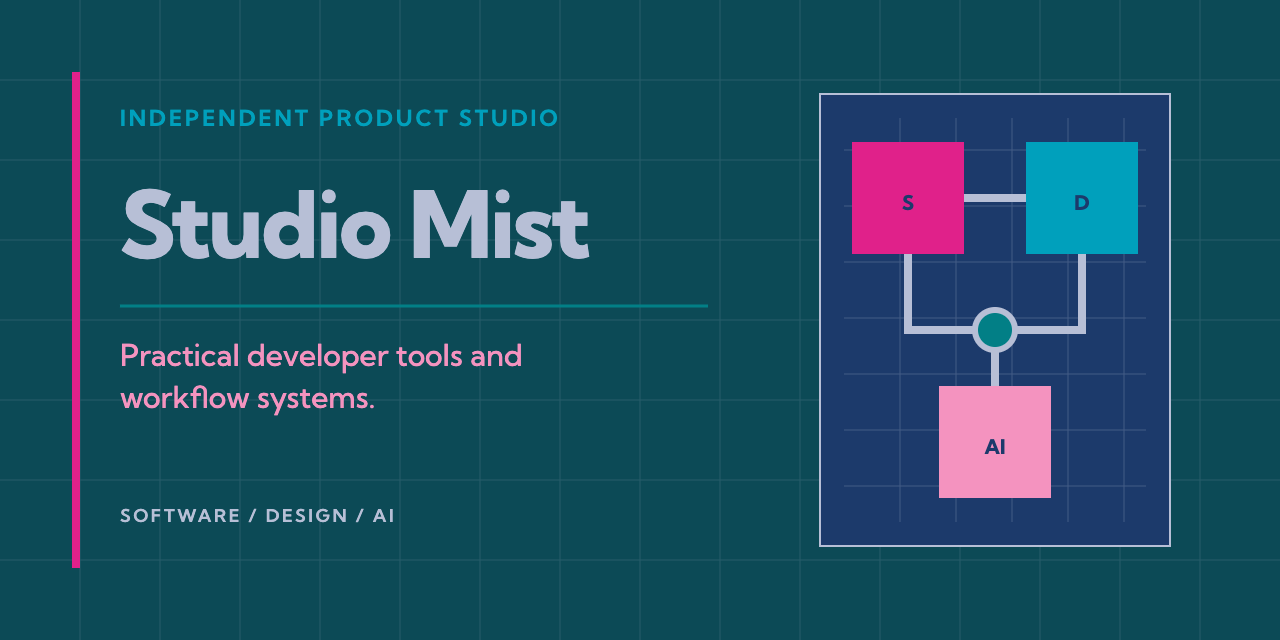
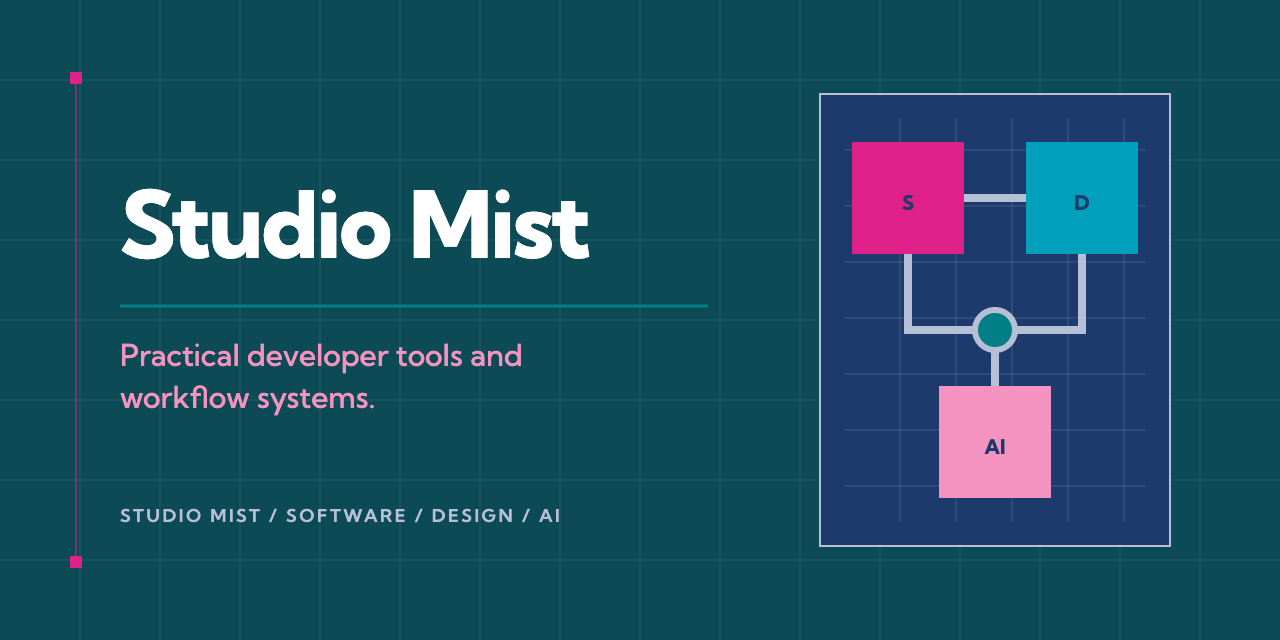
Polish Studio Mist profile artwork

diff --git a/brand/tokens.css b/brand/tokens.css
@@ -13,5 +13,6 @@
   --studio-mist-teal: #027f86;
   --studio-mist-deep-teal: #0c4a56;
   --studio-mist-hot-pink: #e0218a;
+  --studio-mist-white: #ffffff;
   --studio-mist-font: "Kumbh Sans", sans-serif;
 }

diff --git a/brand/README.md b/brand/README.md
@@ -15,7 +15,7 @@ The bundled font is distributed under the SIL Open Font License in [`fonts/OFL.t
 
 ## Palette
 
-Use only these seven brand colours in Studio Mist identity work:
+Use these seven brand colours, plus white for primary headline text:
 
 | Token | Value | Role |
 |---|---|---|
@@ -26,13 +26,14 @@ Use only these seven brand colours in Studio Mist identity work:
 | Teal | `#027f86` | secondary structure |
 | Deep teal | `#0c4a56` | alternate dark field |
 | Hot pink | `#e0218a` | primary accent and focal signal |
+| White | `#ffffff` | primary headline text only |
 
 ## Composition
 
 - Use an architectural grid with visible alignment, fine rules and measured spacing.
 - Prefer modular diagrams, frames and structural line work over decorative illustration.
 - Keep corners square unless a functional object requires a small radius.
-- Use one dominant dark field, one light structural colour and one or two signal accents.
+- Use one dominant dark field, white primary headlines, one light structural colour and one or two signal accents.
 - Do not use gradients, drop shadows, photography or colours outside the palette.
 - Keep copy short and let scale create hierarchy.
 
